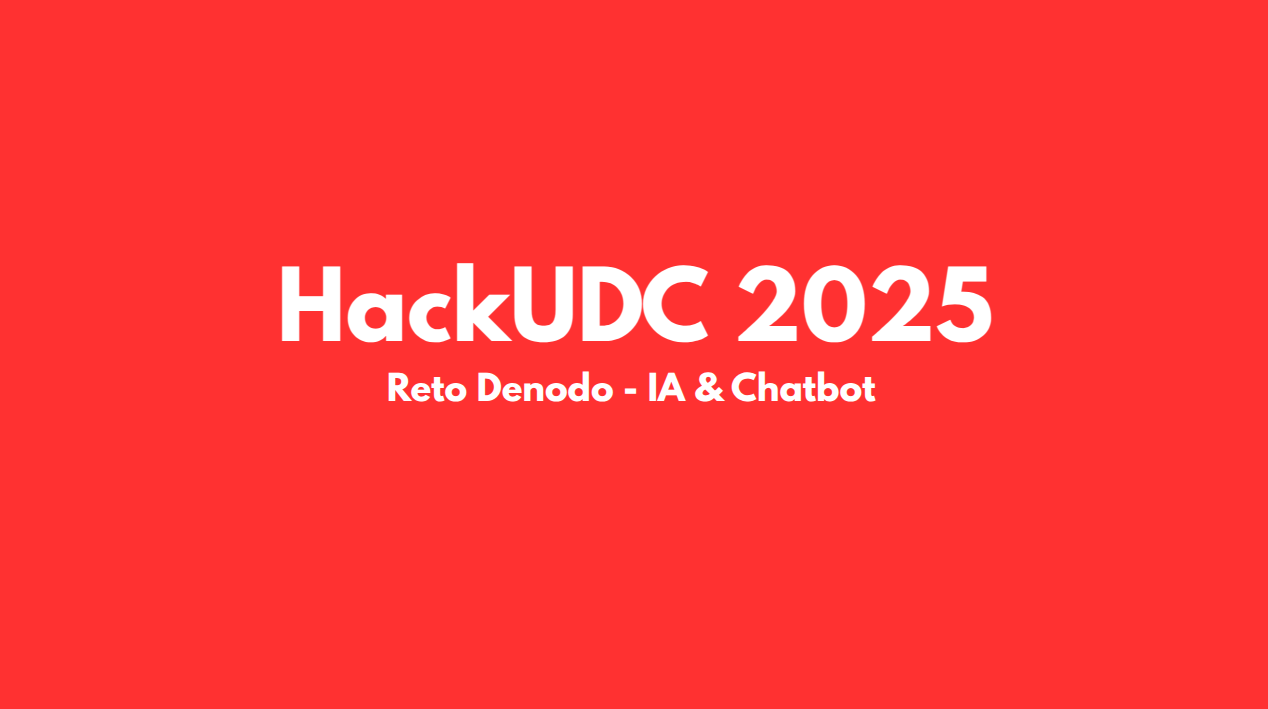
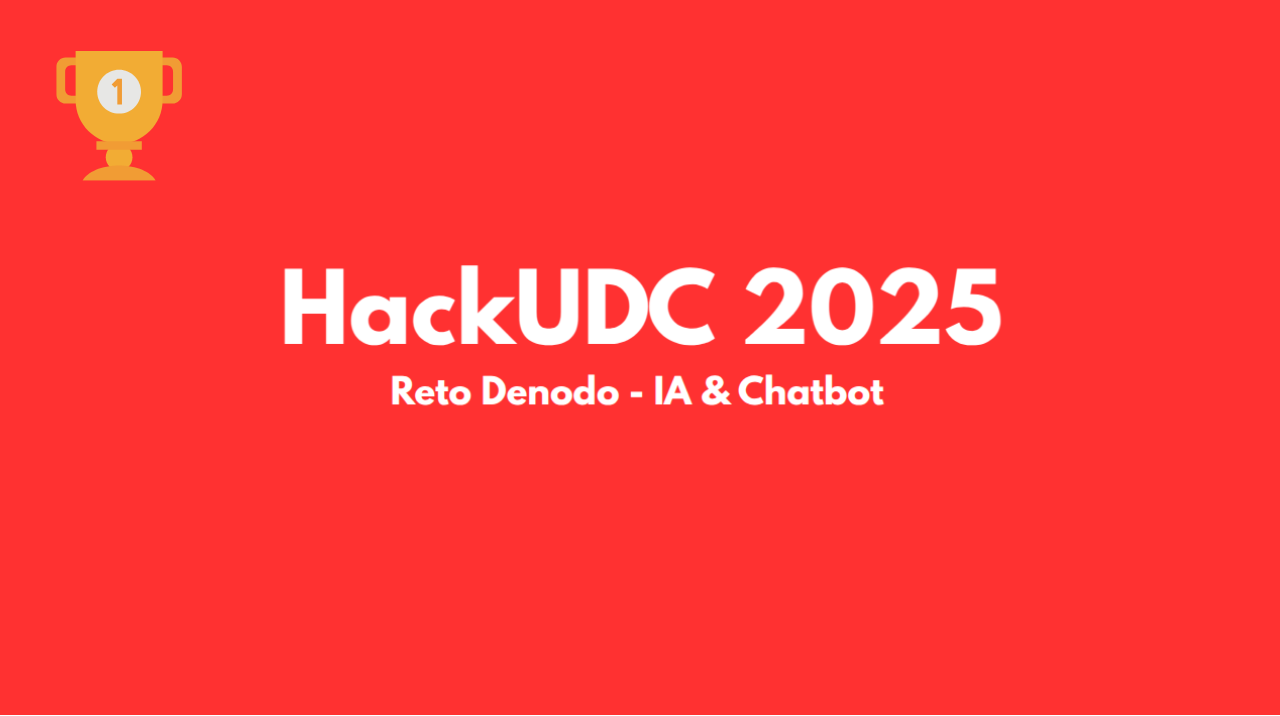
Update HackUPC25

diff --git a/index.html b/index.html
@@ -108,6 +108,16 @@
                         <i class="fas fa-award"></i>
                     </div>
                     <div class="achievement-content">
+                        <h3>HackUPC 2025 Winner</h3>
+                        <p>First prize in the Inditex challenge at HackUPC 2025. Developed an web app for similarity sorting based on an input image and try on features.</p>
+                        <a href="https://github.com/manuamest/echolook" class="btn-link" target="_blank">View Project <i class="fas fa-external-link-alt"></i></a>
+                    </div>
+                </div>
+                <div class="achievement-card">
+                    <div class="achievement-icon">
+                        <i class="fas fa-award"></i>
+                    </div>
+                    <div class="achievement-content">
                         <h3>HackUDC 2025 Winner</h3>
                         <p>First prize in the Denodo challenge at HackUDC 2025. Developed an innovative solution with my team that stood out among all participants.</p>
                         <a href="https://github.com/manuamest/HackUDC2025-Denodo" class="btn-link" target="_blank">View Project <i class="fas fa-external-link-alt"></i></a>
@@ -194,6 +204,21 @@
             <h3 class="project-category">Hackathon Projects</h3>
             
             <div class="projects-grid">
+                <div class="project-card">
+                    <div class="project-image">
+                        <img src="img/hackupc2025.png" alt="HackUPC 2025">
+                    </div>
+                    <div class="project-content">
+                        <h3>HackUPC 2025 - InditexTECH</h3>
+                        <p>First prize-winning project at HackUPC 2025, developing an innovative solution for the Inditex challenge with a team of talented developers.</p>
+                        <div class="project-tags">
+                            <span>Python</span>
+                            <span>veo</span>
+                            <span>Team Project</span>
+                        </div>
+                        <a href="https://github.com/manuamest/HackUDC2025-Denodo" class="btn btn-secondary" target="_blank">Repository <i class="fab fa-github"></i></a>
+                    </div>
+                </div>
                 <div class="project-card">
                     <div class="project-image">
                         <img src="img/hackudc2025.png" alt="HackUDC 2025">
